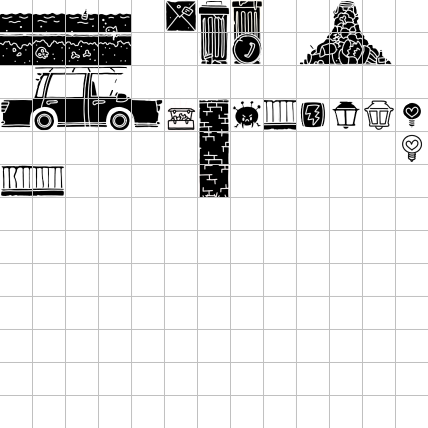
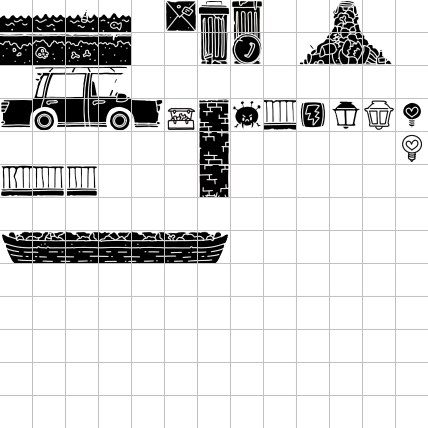
Add files via upload

Changed region(s): [[0.0, 0.5164, 0.5467, 0.6379], [0.0, 0.0304, 0.3037, 0.0911], [0.1519, 0.3645, 0.243, 0.4556]]

diff --git a/js/levels.js b/js/levels.js
@@ -90,19 +90,20 @@ var levels = [
       name:"Level 1",
       theme:'suse',
       background:'#000000',
+      lights:'14',
       template:[
         "                                                                                                                                                                                                                                                                                                            ",
         "                                                                                                                                                                                                                                                                                                            ",
         "                                                                                                                                                                                                                                                                                                            ",
         "                                                                                                          ?                                                                                                                                                                                                 ",
         "               L             L                                                         L                                                           ?                                                          ?                                                                                             ",
-        "                                               ?                                                                                                                                VVLVV     VVV                 C                                                                                             ",
-        "   ?                                               L                 P    ?                                C         M                 ?                                   VVV                                A                                                                                        L    ",
-        "   VVLV       VV            V         G                              M                 M                 M A        NHO                      VVLV  V                                                       VVVVV                   P                      V L V                                   V         ",
-        "                                    VVVVV      V                    VVV               VVVV    M         VVVV  V  VLVVVV          L                        L        P     M                                               ?       VLV                              M     VLV                      #  ?      ",
-        "        M   C              C               P       C        ?    C        E    M              E      C                  C              M   C        M          E   M     E              M               678         C         M       C                M          E  C         678        C    C #     M    ",
-        "P  ?   NHO  A   B ? G  M  BA     B         M  M    A   G    M    A   G    D   NHO   B   G ?   DM     A                  AM  P   G  G  NHO  A       NHO  G   G  D  NHO   MD             NHO     B   ?   12345        A  G  G  NHO      A    G   P      NHO   G   G D  A        12345   G   A  G A #    NHO  F",
-        "SSSSSSSSSSSSSSSSSSSSSSSSSSSSSSSSSSWWWWWWWWWSSSSSSSSSSSSSSSSSSSSSSSSSSSSSSSSSSSSSSSSSSSSSSSSSSSSSSSSSSSWWWWWWWWWWWWWWWWWWSSSSSSSSSSSSSSSSSSSSSSSSSSSSSSSSSSSSSSSSSSSSSSSSSSWWWWWWWWWWWWVVVVVVVWWSSSSSSSSSSSSSSSSSSSSSSSSSSSSSSSSSWWWWWWSSSSSSSSSSSSSSSSSSSSSSSSSSSSSSSSSSSSSSSSSSSSSSSSSSSSSSSSSSSSSSSSSSSSSS"
+        "                                               ?                                                                                                                                IVLVJ     IVJ                 C                                                                                             ",
+        "   ?                                               L                 P    ?                                C         M                 ?                                   IVJ                                A                                                                                        L    ",
+        "   IVLJ       IJ            V         G                              M                 M                 M A        NHO                      IVLJ  V                                                       IVVVJ                  P                      V L V                                  V           ",
+        "                                    IVVVJ      V                    IVJ               IVVJ    M         IVVJ  V  ILVVVJ          L                        L        P     M                                              ?        ILJ                             M      ILJ                     #  ?        ",
+        "        M   C              C               P       C        ?    C        E    M              E      C                  C              M   C        M          E   M     E              M              678         C         M       C                M          E  C         678        C    C +     M     ",
+        "K  ?   NHO  A   B ? G  M  BA     B         M  M    A   G    M    A   G    D   NHO   B   G ?   DM     A                  AM  P   G  G  NHO  A       NHO      G  D  NHO   MD             NHO        ?   12345        A  G     NHO      A    G          NHO   G     D  A        12345   G   A  G A -    NHO  F ",
+        "SSSRTSSSUSSSSSSSUSSSRTSSSSURSSSSSSWWYWWZWWZSSSRTSSSUSSSRSSSSTSSSSUSSSRSSSSSSSSSUSSSSUSSSRTSSSSUSSSSSSTWWYZWWWWWYZWWWZWWWRSSSSSSSRSSRSSSUTSSUSSSSSSSSUSSSRSSSRSSSSSSUSSSSUTWYWWZWWYWWWabcdefgYWUSSSTSSSUSSSUSSSRTSSSUSSRSSRSSSUTWWYZWWUSSSSRSSSTSSSSSSSUSSSSRSSSRSTSSUSSSSSSSSUSSSUSSSRSSSSSSRSRSSSSSSSUSSSSR"
       ]
     }
 ];

diff --git a/js/game.js b/js/game.js
@@ -9,11 +9,12 @@ var debug = false;
 
 // default theme and level
 var theme = 'suse'
-var current_level = levels[1];
+var current_level = levels[4];
 
 var gameInterval;
 var score;
 var flashes = 0;
+var lights;
 
 // position displayed level
 var scroll_x = 0;
@@ -29,7 +30,7 @@ var collisionMap;
 var filterStrength = 20;
 var frameTime = 0, lastLoop = new Date, thisLoop;
 
-var totalLights;
+//var totalLights;
 
 
 // speed, gravity parameters
@@ -201,6 +202,7 @@ function updateCharacters() {
                     if (object.type == 'block_coin') {
                         if (flashes > 0) {
                             replaceLevelSpriteXY(object.x, object.y, "ß");
+                            lights--;
                             //items.push({sx: 8, sy: 9, x: object.x, y: (object.y - size.tile.target.h), type: 'coin'});
                             flashes--;
                             updateFlashes();
@@ -214,6 +216,7 @@ function updateCharacters() {
                     if (object.type == 'block_coin' && held.down) {
                         if (flashes > 0) {
                             replaceLevelSpriteXY(object.x, object.y, "ß");
+                            lights--;
                             //items.push({sx: 8, sy: 9, x: object.x, y: (object.y - size.tile.target.h), type: 'coin'});
                             flashes--;
                             updateFlashes();
@@ -249,9 +252,13 @@ function updateCharacters() {
                     gameOver()
                 }
                 if (object.type == 'exit') {
-                    if (totalLights == countLetter(levels[4].template, 'SZ')) {
+/*                    if (totalLights == countLetter(levels[4].template, 'ß')) {
                         levelWin()
-                        sound_inTheEnd_stop()
+                    }*/
+                    if(lights == 0){
+                      levelWin()
+                    }else{
+                      console.log("Da fehlen noch Lichter")
                     }
                 }
                 if (object.type == 'trampoline') {
@@ -265,6 +272,9 @@ function updateCharacters() {
                     flashes++;
                     updateFlashes();
                     sound_coin()
+                }
+                if (object.type == 'respawn') {
+                    replaceLevelSpriteXY(object.x, object.y, 'K');
                 }
                 if (object.type == 'inTheEnd') {
                     sound_inTheEnd()
@@ -482,9 +492,9 @@ function initializeLevel() {
     resetPlayer()
     scroll_x = player.pos.x - (document.documentElement.clientWidth - 4) / 2
     theme = current_level.theme
-
+    lights = current_level.lights;
     levelObject = current_level;
-    totalLights = countLetter(levels[4].template, 'L');
+//    totalLights = countLetter(levels[4].template, 'L');
 }
 
 function resetPlayer() {
@@ -498,7 +508,7 @@ function resetPlayer() {
 
 // todo: re-spawn player at the closest 'y' to the left
 function respawnPlayer() {
-    if (startpos = getLastLevelSpritePosition('P', player.pos.x)) {
+    if (startpos = getLastLevelSpritePosition('K', player.pos.x)) {
         player.pos.x = startpos.x * size.tile.target.w
         if (player.pos.x >= size.canvas.w / 2) {
             scroll_x = startpos.x * size.tile.target.w - size.canvas.w / 2
@@ -554,7 +564,7 @@ function load_level() {
     initDimensions()
     initializeTheme()
     drawLevel()
-    totalLights = countLightsInCurrentLevel();
+//    totalLights = countLightsInCurrentLevel();
 }
 
 function initDimensions() {
@@ -605,7 +615,7 @@ function updateFlashes() {
     document.getElementById("flashCounter").innerText = flashes;
 
 }
-
+/*
 function countLightsInCurrentLevel() {
     let i = 0
     collisionMap.forEach(function (object) {
@@ -616,7 +626,7 @@ function countLightsInCurrentLevel() {
 
     return i;
 }
-
+*/
 window.onload = function () {
     initGame();
 }
@@ -624,4 +634,3 @@ window.onload = function () {
 window.onresize = function () {
     initGame();
 }
-

diff --git a/js/level_methods.js b/js/level_methods.js
@@ -54,9 +54,17 @@ function getLastLevelSpritePosition(type, x) {
 
 var blocks = {};
 blocks['S']={sx:0,sy:1,collide:true,solid:true};
+blocks['R']={sx:1,sy:1,collide:true,solid:true};
+blocks['T']={sx:2,sy:1,collide:true,solid:true};
+blocks['U']={sx:3,sy:1,collide:true,solid:true};
 blocks['W']={sx:0,sy:0,collide:true,deadly:true};
+blocks['X']={sx:1,sy:0,collide:true,deadly:true};
+blocks['Y']={sx:2,sy:0,collide:true,deadly:true};
+blocks['Z']={sx:3,sy:0,collide:true,deadly:true};
 blocks['?']={sx:9,sy:3,collide:true,type:'coin'};
 blocks['V']={sx:8,sy:3,collide:true,solid:true};
+blocks['I']={sx:0,sy:5,collide:true,solid:true};
+blocks['J']={sx:1,sy:5,collide:true,solid:true};
 blocks['A']={sx:6,sy:1,collide:true,solid:true};
 blocks['C']={sx:6,sy:0,collide:true,solid:true};
 blocks['D']={sx:7,sy:1,collide:true,solid:true};
@@ -66,10 +74,13 @@ blocks['M']={sx:10,sy:0,collide:true,solid:true};
 blocks['N']={sx:9,sy:1,collide:true,solid:true};
 blocks['H']={sx:10,sy:1,collide:true,solid:true};
 blocks['O']={sx:11,sy:1,collide:true,solid:true};
-blocks['P']={sx:13,sy:13,type:'respawn'};
+blocks['P']={sx:12,sy:3,collide:true,type:'respawn'};
+blocks['K']={sx:12,sy:4,collide:true,type:'respawn'};
 blocks['L']={sx:10,sy:3,collide:true,solid:true,type:'block_coin'};
 blocks['ß']={sx:11,sy:3,collide:true,solid:true};
 blocks['#']={sx:6,sy:3,collide:true,solid:true};
+blocks['+']={sx:6,sy:4,collide:true,solid:true};
+blocks['-']={sx:6,sy:5,collide:true,solid:true};
 blocks['1']={sx:0,sy:3,collide:true,solid:true};
 blocks['2']={sx:1,sy:3,collide:true,solid:true};
 blocks['3']={sx:2,sy:3,collide:true,solid:true};
@@ -80,6 +91,13 @@ blocks['7']={sx:2,sy:2,collide:true,solid:true};
 blocks['8']={sx:3,sy:2,collide:true,solid:true};
 blocks['F']={sx:5,sy:3,collide:true,type:'exit'};
 blocks['G']={sx:7,sy:3,deadly:true,solid:true,type:'enemy_mushroom',speed_x:4};
+blocks['a']={sx:0,sy:7,collide:true,solid:true};
+blocks['b']={sx:1,sy:7,collide:true,solid:true};
+blocks['c']={sx:2,sy:7,collide:true,solid:true};
+blocks['d']={sx:3,sy:7,collide:true,solid:true};
+blocks['e']={sx:4,sy:7,collide:true,solid:true};
+blocks['f']={sx:5,sy:7,collide:true,solid:true};
+blocks['g']={sx:6,sy:7,collide:true,solid:true};
 
 
 function loadSingleObjectImage(character){

diff --git a/index.html b/index.html
@@ -23,11 +23,11 @@
     <div id="game-menu" class="game-info">
 
         <div class="menu-item menu-text" id="intro">
-            <p>Welcome to the Geeko run!</p>
+            <p>Caza La Luz </p>
         </div>
 
         <div class="menu-item menu-link" id="button-play3">
-            SUSE Geeko run
+            Play Game
         </div>
 
 

diff --git a/js/menu.js b/js/menu.js
@@ -37,7 +37,7 @@ if (button = document.getElementById("button-play3")) {
     }, false);
 
     button.addEventListener('mouseover', function (event) {
-        current_level = levels[1];
+        current_level = levels[4];
         load_level()
     }, false);
 }
